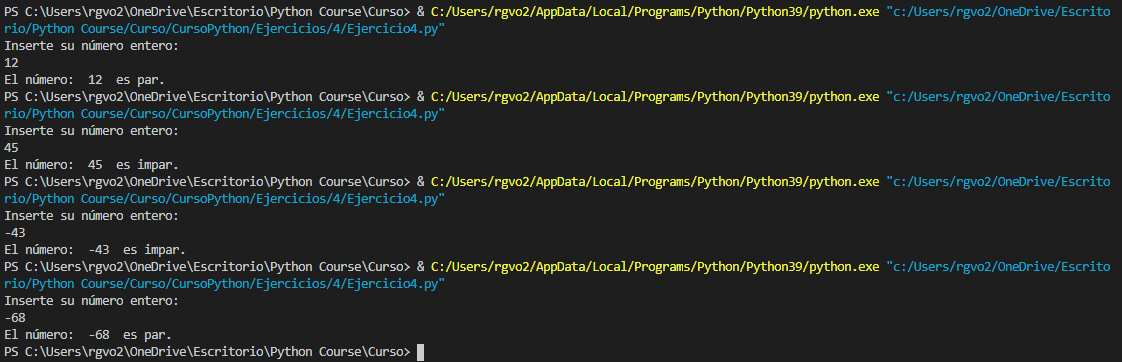
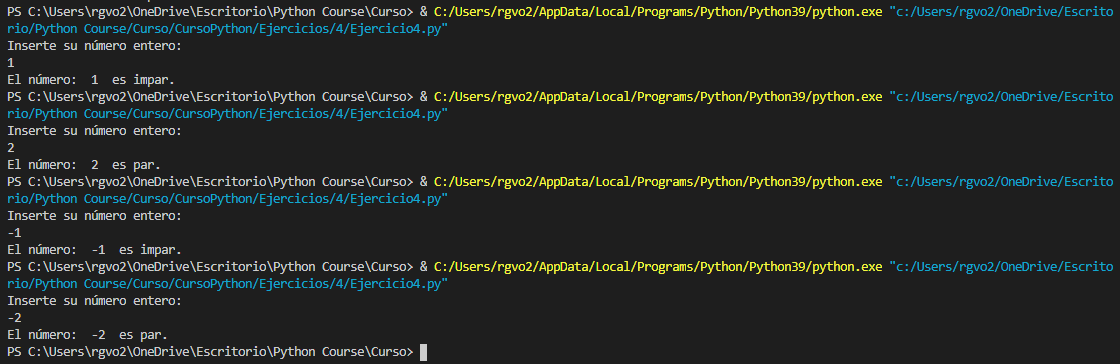
ejercicio4y5

Changed region(s): [[0.0, 0.0, 1.0, 0.6077], [0.0, 0.6381, 1.0, 1.0]]

diff --git a/Ejercicios/5/Ejercicio5.py b/Ejercicios/5/Ejercicio5.py
@@ -1,0 +1,30 @@
+# Pedir la cantidad en grados y convertilos en °C, °F y °K
+while True:
+    print("Elija en que formato ingresaras los grados:", "\n", "1) Centígrados", "\n", "2) Fahrenheit" , "\n", "c) Kelvin")
+    opcion = input()
+if (int(opcion) == 1):
+    print("Ingresa los grados:")
+    cg = input()
+    cg = float(cg)
+    fh = (1.8*cg) + 32
+    kv = cg + 273.15
+    print("La conversión de {cg}°C a Fahrenheit es {fh}°F y la conversión a Kelvin es {kv}°K")
+    break
+elif(int(opcion) == 2):
+    print("Ingresa los grados:")
+    fh = input()
+    fh = float(fh)
+    cg = (fh - 32)/1.8
+    kv = (fh - 32)/1.8 + 273.15
+    print("La conversión de {fh}°F a Centígrados es {cg}°C y la conversión a Kelvin es {kv}°K")
+    break
+elif(int(opcion) == 3):
+    print("Ingresa los grados:")
+    kv = input()
+    kv = float(kv)
+    cg = kv - 273.15
+    fh = (1.8*(kv - 273.15)) + 32
+    print("La conversión de {kv}°K a Centígrados es {cg}°C y la conversión a Farenheit es {fh}°K")
+    break
+else:
+    print("Ingrese un valor correcto")

diff --git a/Ejercicios/4/Ejercicio4.py b/Ejercicios/4/Ejercicio4.py
@@ -1,7 +1,7 @@
 # Programa para saber si un número es par o impar
 print("Inserte su número entero: ")
 numero = input()
-comparador = float(numero)%2
+comparador = int(numero)%2
 if(comparador == 1):
     print("El número: " , numero, " es impar.")
 else:
